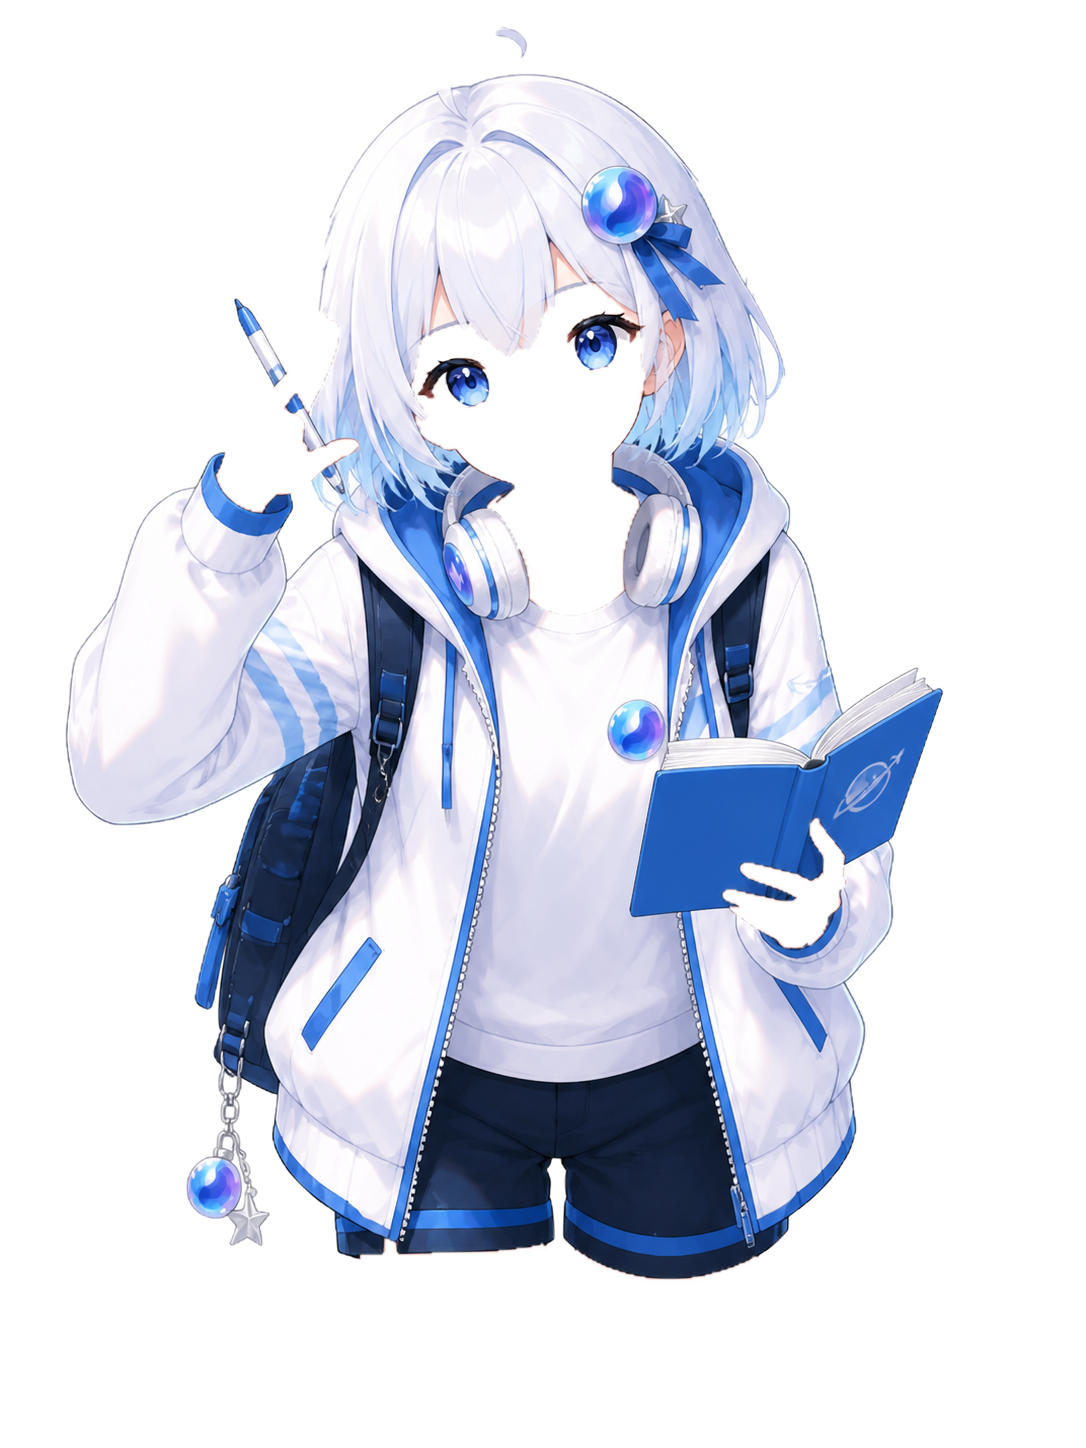
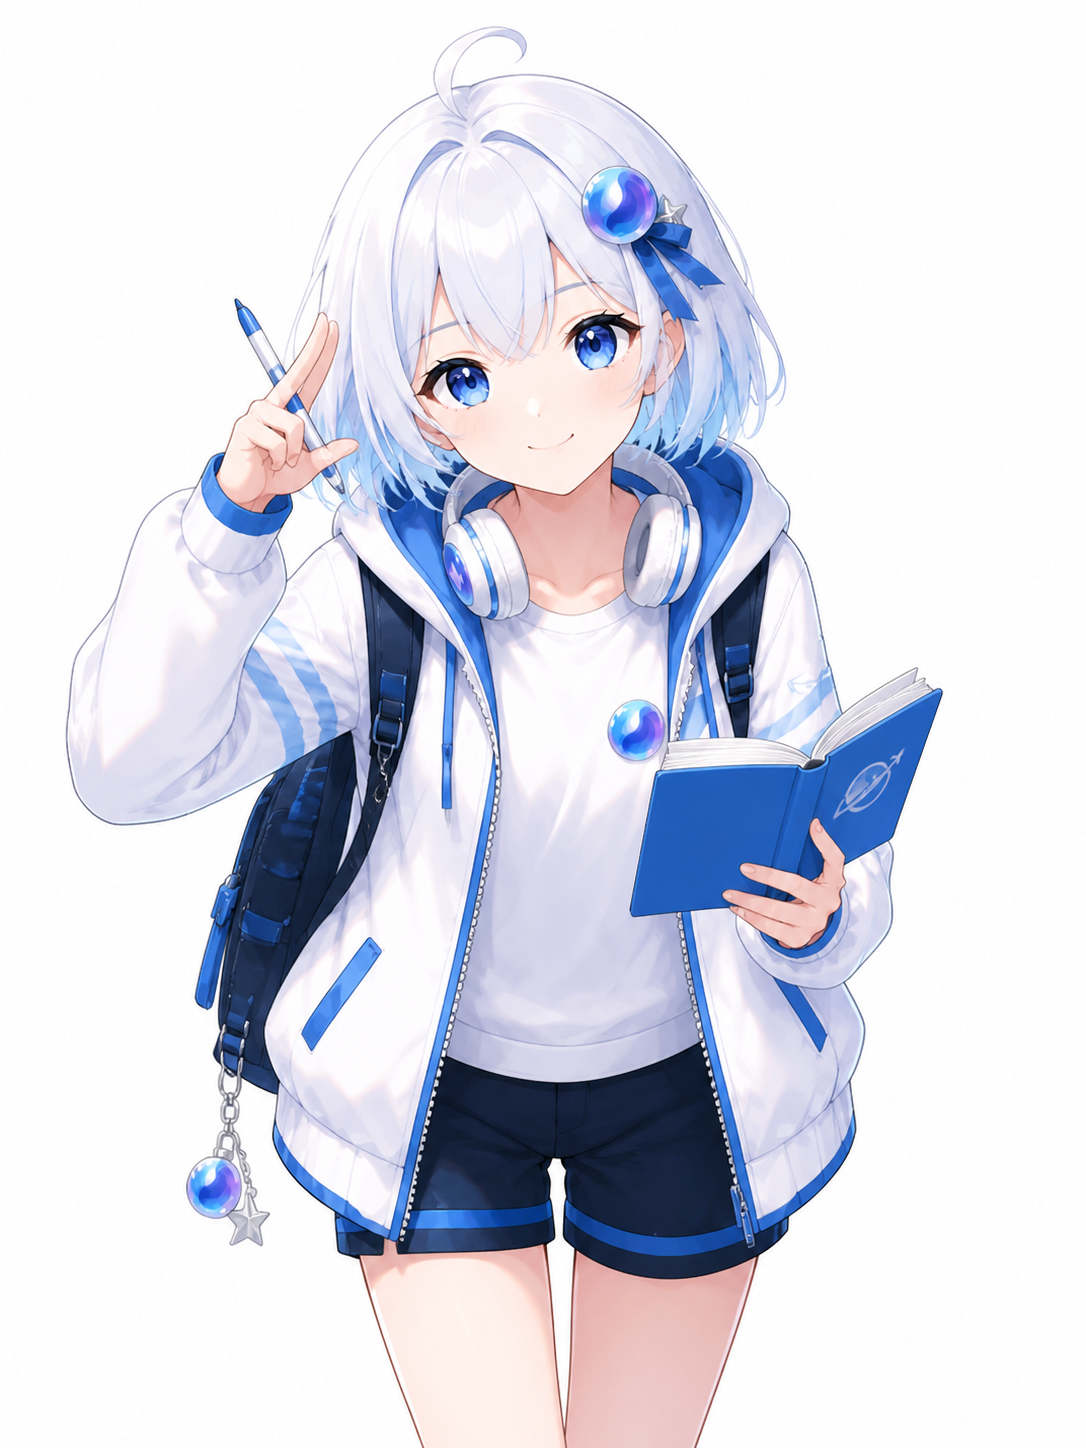
fix:restore images

diff --git a/scripts/submission_readiness_report.py b/scripts/submission_readiness_report.py
@@ -13,8 +13,6 @@ import subprocess
 import sys
 from pathlib import Path
 from typing import Any
-from PIL import Image
-
 SCRIPT_DIR = Path(__file__).resolve().parent
 if str(SCRIPT_DIR) not in sys.path:
     sys.path.insert(0, str(SCRIPT_DIR))
@@ -131,6 +129,7 @@ def _collect_avatar_asset_readiness(repo_root: Path) -> dict[str, Any]:
         repo_root / "apps" / "mobile" / "lib" / "core" / "constants" / "avatar_states.dart"
     )
     avatar_dir = repo_root / "apps" / "mobile" / "assets" / "avatars"
+    source_avatar_dir = repo_root / "project" / "img" / "lanxiaoxin"
     source_text = _read_text(avatar_source)
     asset_names = sorted(
         {
@@ -142,21 +141,23 @@ def _collect_avatar_asset_readiness(repo_root: Path) -> dict[str, Any]:
     offenders: list[str] = []
     for name in asset_names:
         path = avatar_dir / f"{name}.png"
+        source_path = source_avatar_dir / f"{name}.png"
         if not path.exists():
             offenders.append(f"{path.relative_to(repo_root)} missing")
             continue
-        try:
-            alpha = Image.open(path).convert("RGBA").getchannel("A")
-        except OSError as exc:
-            offenders.append(f"{path.relative_to(repo_root)} unreadable: {exc}")
+        if not source_path.exists():
+            offenders.append(f"{source_path.relative_to(repo_root)} missing")
             continue
-        if alpha.getextrema()[0] != 0:
-            offenders.append(f"{path.relative_to(repo_root)} has no transparent pixels")
+        if path.read_bytes() != source_path.read_bytes():
+            offenders.append(
+                f"{path.relative_to(repo_root)} differs from {source_path.relative_to(repo_root)}"
+            )
 
     return {
         "ok": bool(asset_names) and not offenders,
         "detail": {
             "checked": [f"assets/avatars/{name}.png" for name in asset_names],
+            "source": "project/img/lanxiaoxin",
             "offenders": offenders,
         },
     }
@@ -290,7 +291,7 @@ def collect_submission_readiness(
             "detail": public_hygiene_report["checks"],
             "manual": True,
         },
-        "avatar_assets_transparent": avatar_asset_report,
+        "avatar_assets_match_original_materials": avatar_asset_report,
         "android_release_preflight": {
             "ok": android_report["ok"],
             "detail": android_report["checks"],

diff --git a/services/api/tests/test_mobile_avatar_assets.py b/services/api/tests/test_mobile_avatar_assets.py
@@ -2,11 +2,9 @@ from __future__ import annotations
 
 from pathlib import Path
 
-from PIL import Image
-
-
 REPO_ROOT = Path(__file__).resolve().parents[3]
 AVATAR_DIR = REPO_ROOT / "apps" / "mobile" / "assets" / "avatars"
+SOURCE_AVATAR_DIR = REPO_ROOT / "project" / "img" / "lanxiaoxin"
 AVATAR_STATE_SOURCE = (
     REPO_ROOT / "apps" / "mobile" / "lib" / "core" / "constants" / "avatar_states.dart"
 )
@@ -22,18 +20,21 @@ def _avatar_asset_names() -> list[str]:
     return sorted(set(names))
 
 
-def test_avatar_state_runtime_assets_are_transparent_pngs():
+def test_avatar_state_runtime_assets_match_original_materials():
     offenders: list[str] = []
     for name in _avatar_asset_names():
-        path = AVATAR_DIR / f"{name}.png"
-        if not path.exists():
-            offenders.append(f"{path.relative_to(REPO_ROOT)} missing")
+        runtime_path = AVATAR_DIR / f"{name}.png"
+        source_path = SOURCE_AVATAR_DIR / f"{name}.png"
+        if not runtime_path.exists():
+            offenders.append(f"{runtime_path.relative_to(REPO_ROOT)} missing")
             continue
-
-        image = Image.open(path).convert("RGBA")
-        alpha = image.getchannel("A")
-        has_transparency = alpha.getextrema()[0] == 0
-        if not has_transparency:
-            offenders.append(f"{path.relative_to(REPO_ROOT)} has no transparent pixels")
+        if not source_path.exists():
+            offenders.append(f"{source_path.relative_to(REPO_ROOT)} missing")
+            continue
+        if runtime_path.read_bytes() != source_path.read_bytes():
+            offenders.append(
+                f"{runtime_path.relative_to(REPO_ROOT)} differs from "
+                f"{source_path.relative_to(REPO_ROOT)}"
+            )
 
     assert offenders == []

diff --git a/services/api/tests/test_submission_readiness_report.py b/services/api/tests/test_submission_readiness_report.py
@@ -37,7 +37,7 @@ def test_submission_readiness_report_aggregates_release_docs_and_preflights():
     assert checks["public_submission_hygiene"]["manual"] is True
     assert checks["demo_evidence_readiness"]["ok"] is True
     assert checks["demo_evidence_readiness"]["manual"] is True
-    assert checks["avatar_assets_transparent"]["ok"] is True
+    assert checks["avatar_assets_match_original_materials"]["ok"] is True
     assert checks["android_release_preflight"]["ok"] is True
     assert checks["android_device_readiness"]["manual"] is True
     assert "manifest_declares_runtime_permissions" in checks["android_device_readiness"]["detail"]

diff --git a/docs/handoff/ai-shared-state.md b/docs/handoff/ai-shared-state.md
@@ -28,6 +28,10 @@
 
 ### 2026-07-04
 
+- Reverted runtime Lanxiaoxin avatar assets per user feedback: `apps/mobile/assets/avatars/lanxiaoxin_*.png` now match `project/img/lanxiaoxin/lanxiaoxin_*.png` byte-for-byte instead of using processed transparent variants.
+- Updated avatar guardrails from transparency checks to original-material consistency checks in `services/api/tests/test_mobile_avatar_assets.py` and `scripts/submission_readiness_report.py`; removed the no-longer-needed direct `pillow` dependency from `services/api`.
+- Validation passed: `uv run pytest tests/test_mobile_avatar_assets.py tests/test_submission_readiness_report.py -q`; `python -m py_compile scripts/submission_readiness_report.py`; `python scripts/submission_readiness_report.py --json --skip-git`.
+
 - Updated `scripts/android_device_readiness_report.py` to treat Android 13+ filtering of legacy `READ_EXTERNAL_STORAGE` as an explicit platform compatibility detail instead of a package/manifest mismatch or missing runtime grant.
 - Current Android readiness JSON now reports `ignoredByPlatform` and `ignoredReasons` for the legacy storage permission while keeping real missing grants for location, camera, microphone, notification, and media image access as manual pending checks.
 - Validation passed: `uv run pytest tests/test_android_device_readiness_report.py tests/test_submission_readiness_report.py -q`; `python -m py_compile scripts/android_device_readiness_report.py scripts/submission_readiness_report.py`; `python scripts/android_device_readiness_report.py --json`; `python scripts/submission_readiness_report.py --json`.
@@ -46,7 +50,7 @@
 
 - Added read-only `scripts/submission_package_manifest.py` to track final competition package slots: code repository, Android APK, presentation deck, demo video, screenshots, API evidence, privacy/material review, and platform upload.
 - `scripts/submission_readiness_report.py` now aggregates `submission_package_manifest` as a manual-aware final submission check, keeping human-only artifacts visible without marking them as automated.
-- Added `pillow>=12.0.0` to `services/api` dependencies because submission readiness and avatar asset tests inspect PNG transparency through Pillow.
+- `Pillow` is no longer required for avatar readiness checks after reverting runtime avatars to byte-for-byte original materials.
 - Validation passed: `uv run pytest tests/test_submission_package_manifest.py tests/test_submission_readiness_report.py tests/test_mobile_avatar_assets.py -q`; `python -m py_compile scripts/submission_package_manifest.py scripts/submission_readiness_report.py`; `python scripts/submission_package_manifest.py --json`; `python scripts/submission_readiness_report.py --json --skip-git`.
 
 - Added read-only `scripts/demo_evidence_readiness.py` to check Demo/PPT evidence readiness without starting services, reading secrets, or inspecting media content.
@@ -59,9 +63,9 @@
 - Validation passed: `uv run pytest services/api/tests/test_submission_readiness_report.py -q`; `python -m py_compile scripts/submission_readiness_report.py`; `python scripts/submission_readiness_report.py --json --skip-git`; `git diff --check` only reported LF-to-CRLF working-copy warnings.
 - GitNexus `detect_changes(scope=all)` reported low risk, 3 changed files, and no affected indexed processes.
 
-- 已完成首页蓝小心白底矩形的仓库内可执行修复：`apps/mobile/assets/avatars/lanxiaoxin_*.png` 运行时头像资产已批量转为带 alpha 的透明 PNG，`project/img/lanxiaoxin/` 仍保留源素材对照。
-- 新增 `services/api/tests/test_mobile_avatar_assets.py`，静态检查 `AvatarState` 引用的运行时头像 PNG 必须包含真实透明像素，避免重新接入不透明白底素材。
-- `scripts/submission_readiness_report.py` 已新增 `avatar_assets_transparent` 检查，把蓝小心运行时头像透明度纳入最终提交就绪总览。
+- 已按用户要求撤销透明 PNG 处理：`apps/mobile/assets/avatars/lanxiaoxin_*.png` 运行时头像资产已恢复为 `project/img/lanxiaoxin/` 原始素材的逐字节副本。
+- `services/api/tests/test_mobile_avatar_assets.py` 现在静态检查 `AvatarState` 引用的运行时头像 PNG 必须与原始素材一致，避免再次引入处理后的变体。
+- `scripts/submission_readiness_report.py` 已将头像检查改为 `avatar_assets_match_original_materials`，把运行时头像与原始素材一致性纳入最终提交就绪总览。
 - 验证通过：`uv run pytest services/api/tests/test_submission_readiness_report.py services/api/tests/test_mobile_avatar_assets.py -q`；`python scripts/submission_readiness_report.py --json --skip-git`；`python -m py_compile scripts/submission_readiness_report.py`；`cd apps/mobile && flutter test --no-pub test/avatar_states_test.dart`。
 - `docs/todo.md` 已把蓝小心白底矩形从未完成项更新为已完成；最终视觉风格、素材授权、真机权限、正式签名、Demo/PPT 和比赛上传仍按人工事项保留。
 

diff --git a/docs/todo.md b/docs/todo.md
@@ -39,7 +39,7 @@
 - [x] 稳定 Android 模拟器验收环境已准备；最新 debug APK 已安装启动，首页和聊天页真实后端联调通过，审计日志可见 `openai_compatible`/`amap` 调用记录。
 - [x] 已在 vivo/Android 真机安装最新 APK，并验收“首页蓝小心同屏直聊、人物图先下移到底部陪伴区域、底部 Tab：首页/行程/复盘/我的、旅拍入口归入复盘记录、键盘不遮挡输入框、基础消息发送与真实后端回复”。
 - [x] 已新增只读真机就绪脚本 `python scripts/android_device_readiness_report.py --json`，可读取 adb、设备、安装包、权限、Manifest 对齐和相机/相册/语音识别/TTS 系统能力；脚本不安装 APK、不启动 App、不修改权限。
-- [x] 已将运行时 `lanxiaoxin_*.png` 头像资产替换为带 alpha 的透明 PNG，并新增静态测试防止首页重新接入不透明白底素材。
+- [x] 已按用户要求将运行时 `lanxiaoxin_*.png` 头像资产恢复为 `project/img/lanxiaoxin/` 原始素材，并新增静态测试防止运行时头像与原始素材不一致。
 - [ ] 准备 vivo/Android 真机做最终设备能力验收。
 - [ ] 验证相册选择、相机拍摄、定位、麦克风、系统语音识别、中文 TTS、Android 13+ 通知权限和通知展示。
 - [ ] 验证拒绝权限时页面展示明确中文提示，不白屏、不卡死、不写入伪造数据。
@@ -68,7 +68,7 @@
 ## 7. 隐私、合规与素材确认
 
 - [ ] 最终确认公开隐私说明、权限用途说明、记忆保存规则和对外表述。
-- [ ] 确认蓝小心最终视觉风格、素材授权、多表情/多动作素材；如使用 GIF/WebP/Lottie/Live2D，提供最终资产并替换运行时 PNG。
+- [ ] 确认蓝小心最终视觉风格、白底矩形处理方案、素材授权、多表情/多动作素材；如使用透明 PNG/WebP/GIF/Lottie/Live2D，提供最终资产并替换运行时 PNG。
 - [ ] 确认真实 Demo 数据：目的地、路线、照片、用户画像、同行人信息均可公开展示。
 - [ ] 公开演示前检查日志、截图、视频中没有密钥、私人位置、身份证明、未经授权照片或队友隐私。
 
